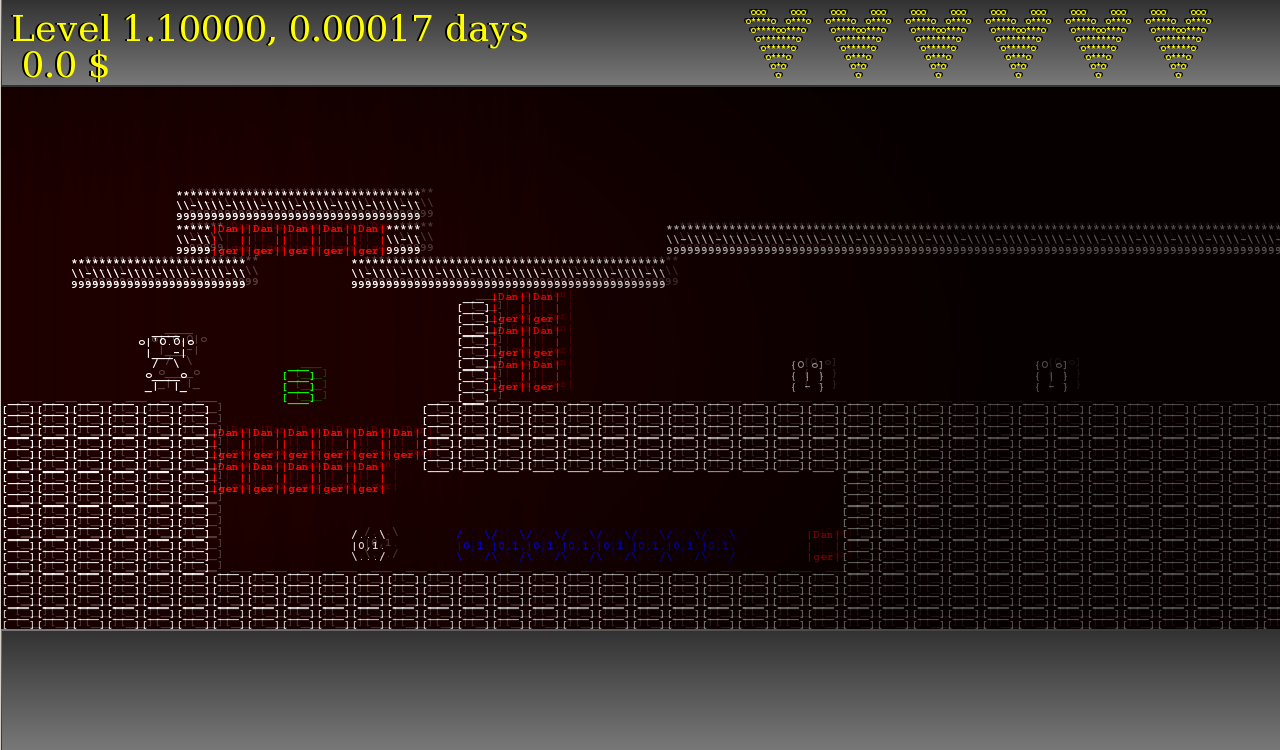
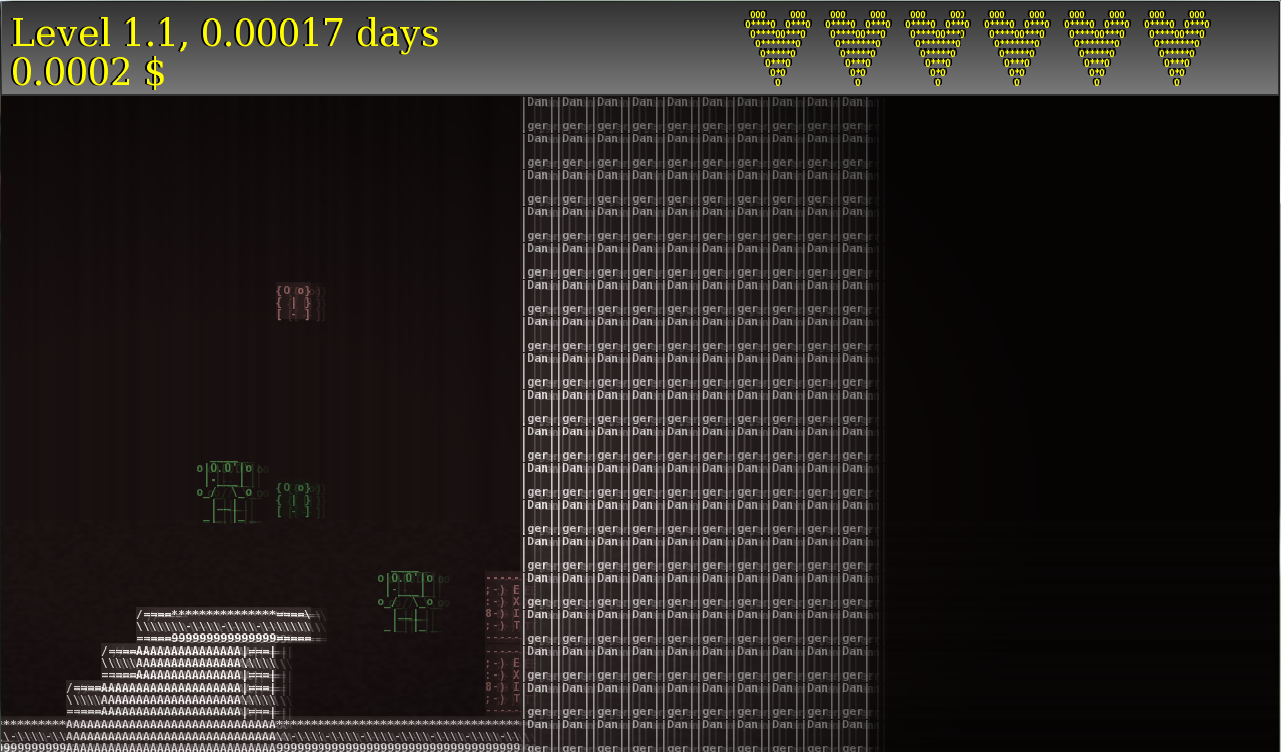
add proper animation speed timings for AnimTile's. Add a screenshot from the new version.

diff --git a/media/web/js/main.js b/media/web/js/main.js
@@ -16,6 +16,7 @@ cells_x = tiles_x * tile_size_x;
 cells_y = tiles_y * tile_size_y;
 
 current_plane = 1;
+update_ms = 200;
 
 lines = new Array();
 entities = new Array();
@@ -69,7 +70,7 @@ TileInstance.prototype.draw = function() {
         }
     }
 }
-TileInstance.prototype.update = function(tick) {
+TileInstance.prototype.update = function() {
 	// the default update does actually nothing.
 }
 
@@ -81,18 +82,25 @@ TileInstance.prototype.getTextLines = function() {
 function AnimTileInstance(outer){
     this.outer = outer;
     this.cur_anim = 0;
+	this.cur_tick = 0;
     
     return this;
 }
 
 AnimTileInstance.prototype = new TileInstance();
 AnimTileInstance.prototype.constructor = AnimTileInstance;
-AnimTileInstance.prototype.update = function(tick){
-    this.cur_anim += 1;
+AnimTileInstance.prototype.update = function(){
+    ++this.cur_tick;
+	this.updateAnim();
+}
+
+AnimTileInstance.prototype.updateAnim = function(){
+	this.cur_anim =  Math.floor(((update_ms/1000.0)*this.cur_tick / (this.outer.speed/this.outer.anim_lines.length))) 
+		% this.outer.anim_lines.length;
 }
 
 AnimTileInstance.prototype.getTextLines = function(x, y) {
-    return this.outer.anim_lines[this.cur_anim % this.outer.anim_lines.length];
+    return this.outer.anim_lines[this.cur_anim];
 }
 
 // ***********************************************************************************
@@ -189,7 +197,7 @@ entity_showcase["DA"] = new AnimTile([[
 "|Dan|", 
 "|   |", 
 "|   |"
-]]);
+]],3.0);
 
 entity_showcase["S0"] = new AnimTile([[
 "/...\\",
@@ -211,7 +219,7 @@ entity_showcase["S0"] = new AnimTile([[
 "/...\\",
 "|0,1.",
 "\\.../"
-]]);
+]],3.0);
 
 entity_showcase["S1"] = new AnimTile([[
 "[(.)]",
@@ -234,7 +242,7 @@ entity_showcase["S1"] = new AnimTile([[
 ],[
 "[(.)]",
 "[   ]"
-]]);
+]],2.0);
 
 entity_showcase["B0"] = new Tile([
 "AAAAA",
@@ -517,7 +525,7 @@ $(document).ready(function(){
     	setupPlayGround(nxt++);
     });
 	
-	$(document).everyTime("1000ms",function() {
+	$(document).everyTime(update_ms+"ms",function() {
     	updatePlayGround(true);	
     });
 });
